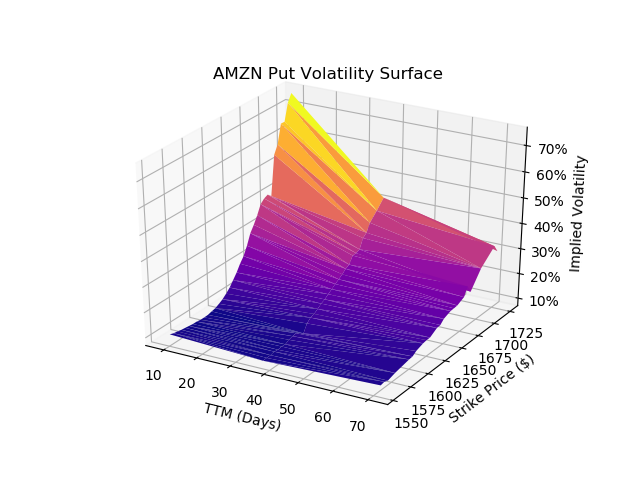
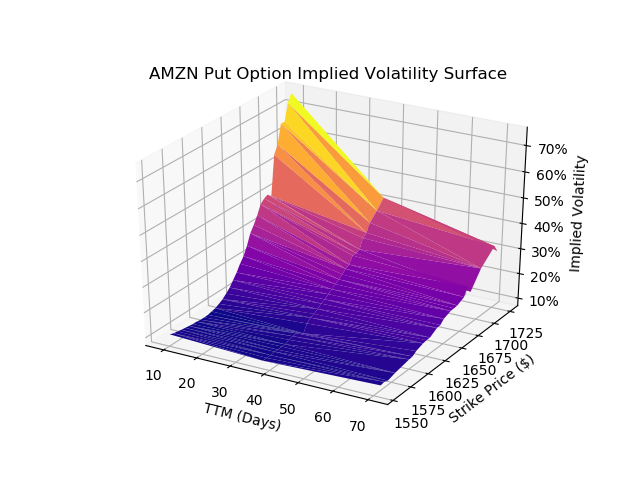
Made minor change to volatility plot titles; modified and re-ran script, updating all old plots

Changed region(s): [[0.2188, 0.125, 0.7812, 0.1875]]

diff --git a/Homework 1/question_solutions/question_2_vol_plots.py b/Homework 1/question_solutions/question_2_vol_plots.py
@@ -57,7 +57,8 @@ def plot2DVolSmile(data: pd.DataFrame, name: str, save_loc: str):
         # Setting legend and title
         plt.legend()
         full_option_type = 'Call' if (option_type == 'C') else 'Put'
-        plt.title(' '.join([name, full_option_type, 'Volatility Smile']))
+        plt.title(' '.join([name, full_option_type,
+                            'Option Implied Volatility Smile']))
 
         # Saving to file
         fname = '_'.join([name, full_option_type, '2DVolSmile.png'])
@@ -117,7 +118,8 @@ def plot3DVolatilitySurface(data: pd.DataFrame, name: str, save_loc: str):
 
         # Setting title
         full_option_type = 'Call' if (option_type == 'C') else 'Put'
-        plt.title(' '.join([name, full_option_type, 'Volatility Surface']))
+        plt.title(' '.join([name, full_option_type,
+                            'Option Implied Volatility Surface']))
 
         # Saving to file
         fname = '_'.join([name, full_option_type, '3DVolSurface.png'])
